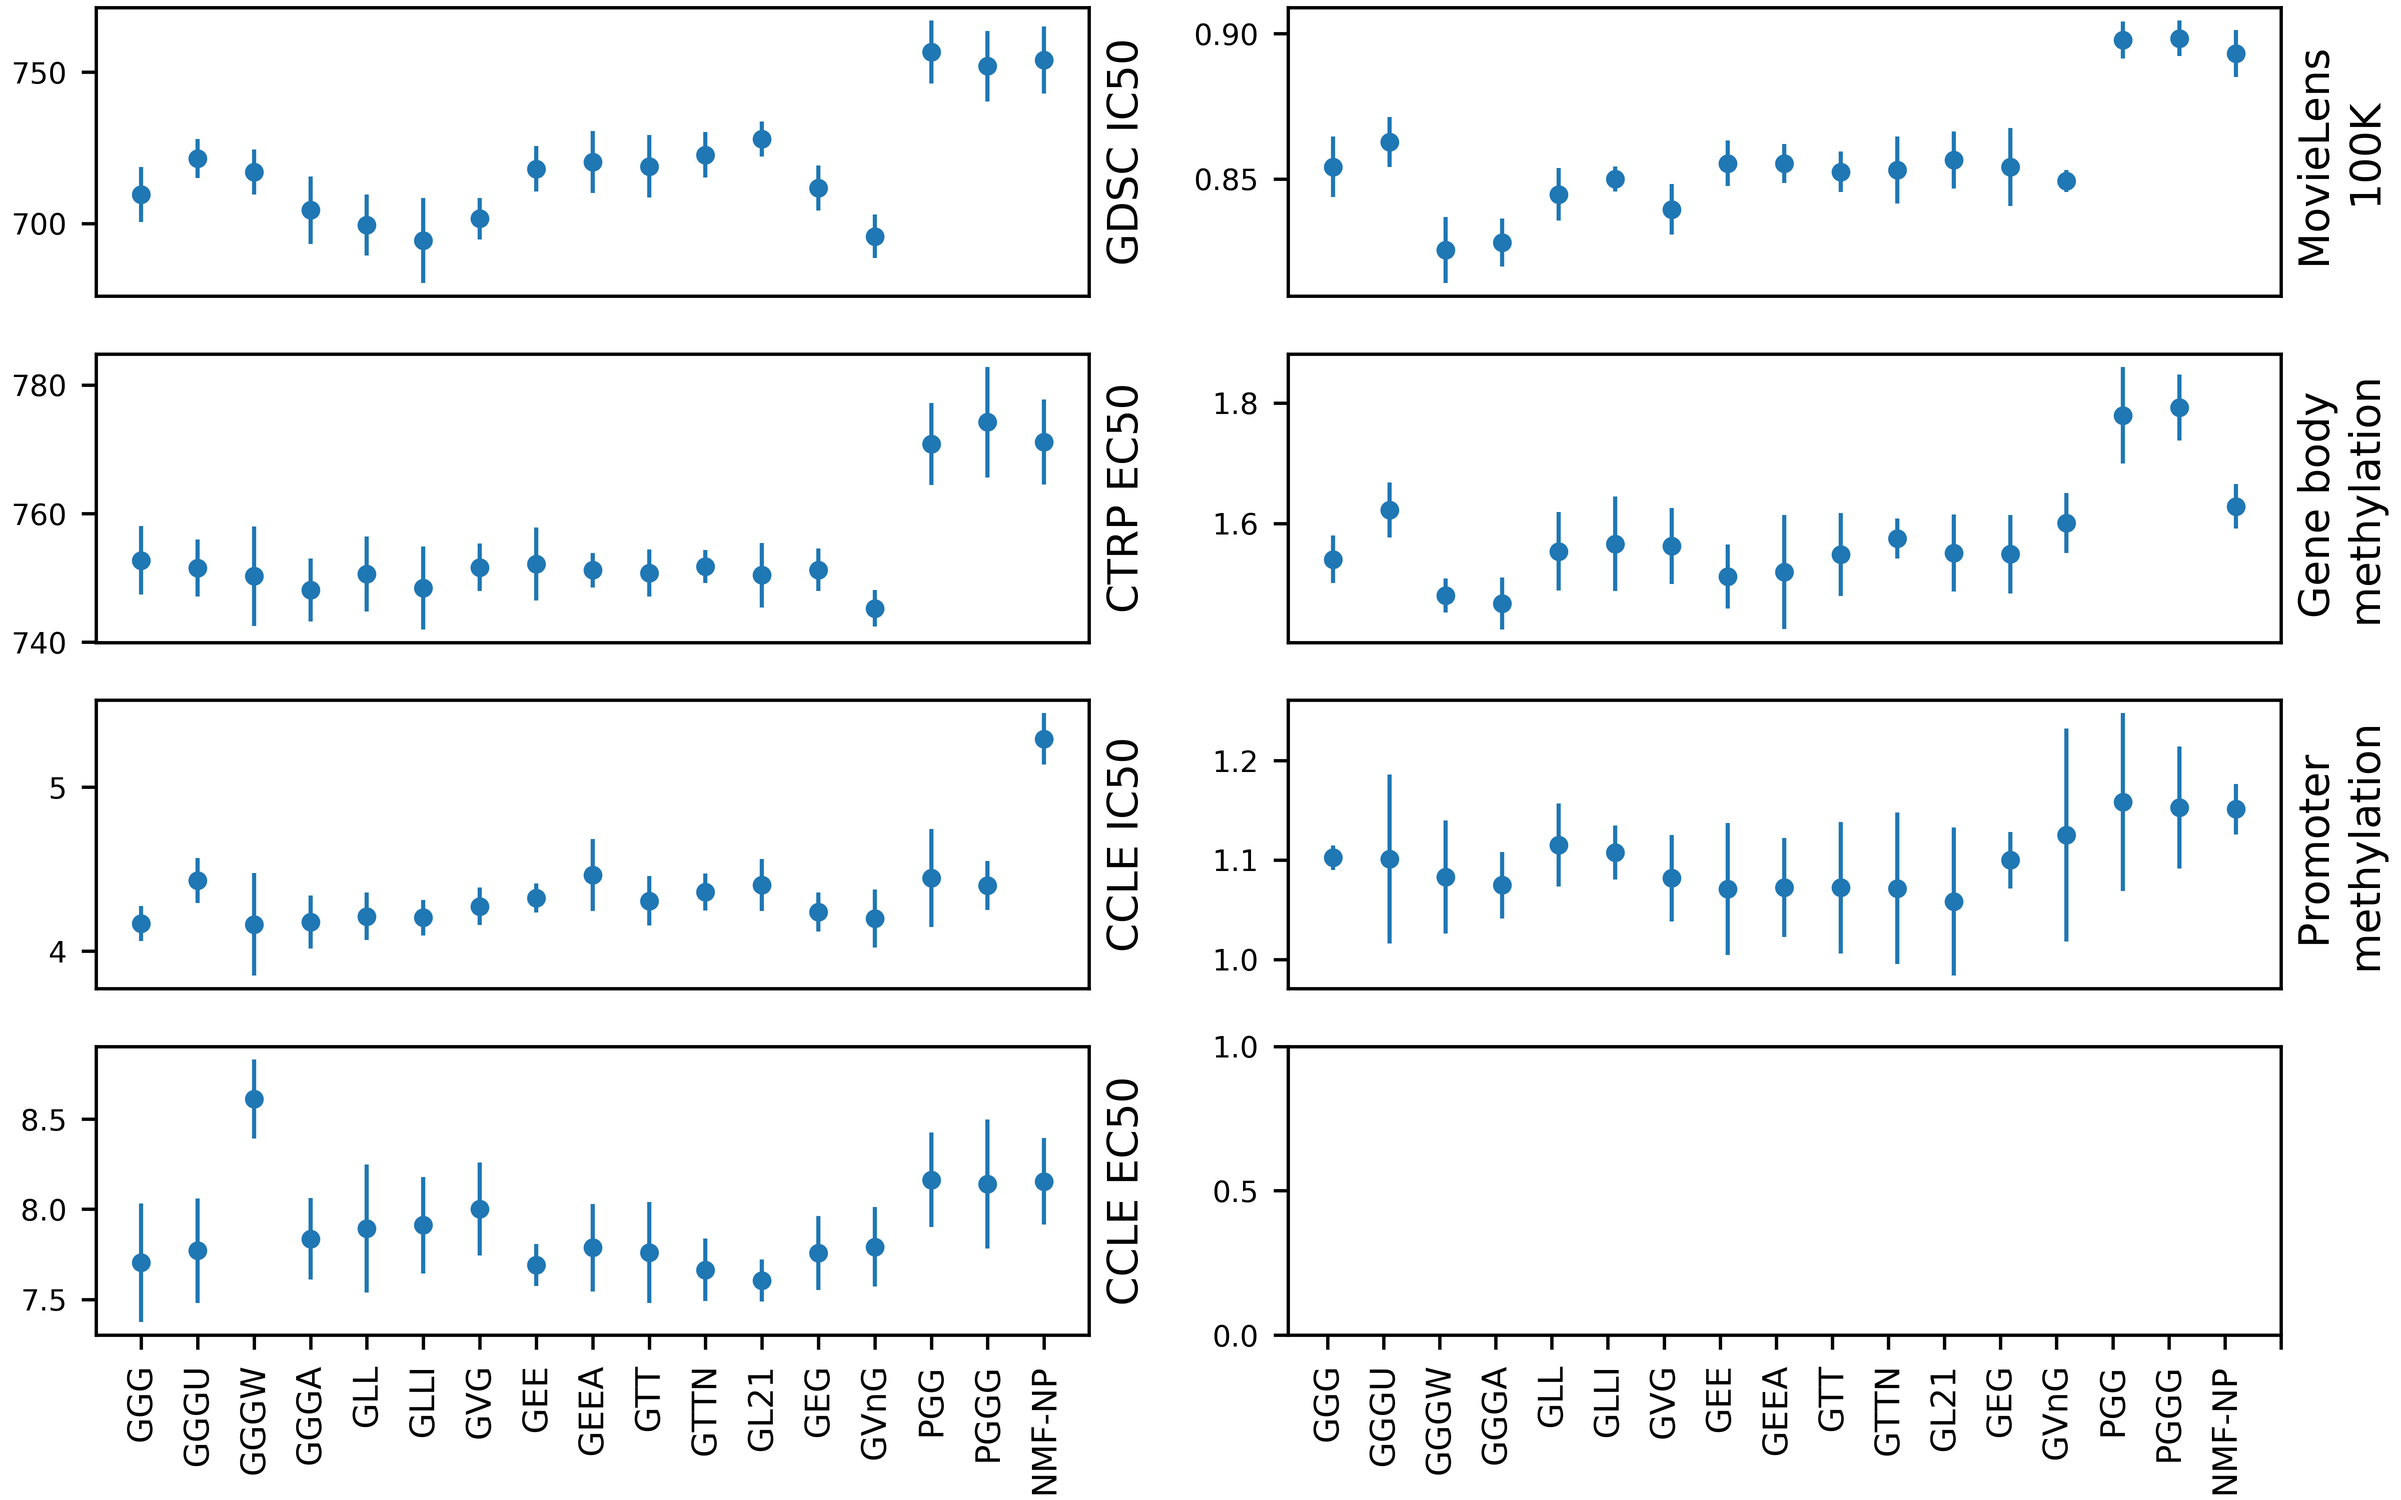
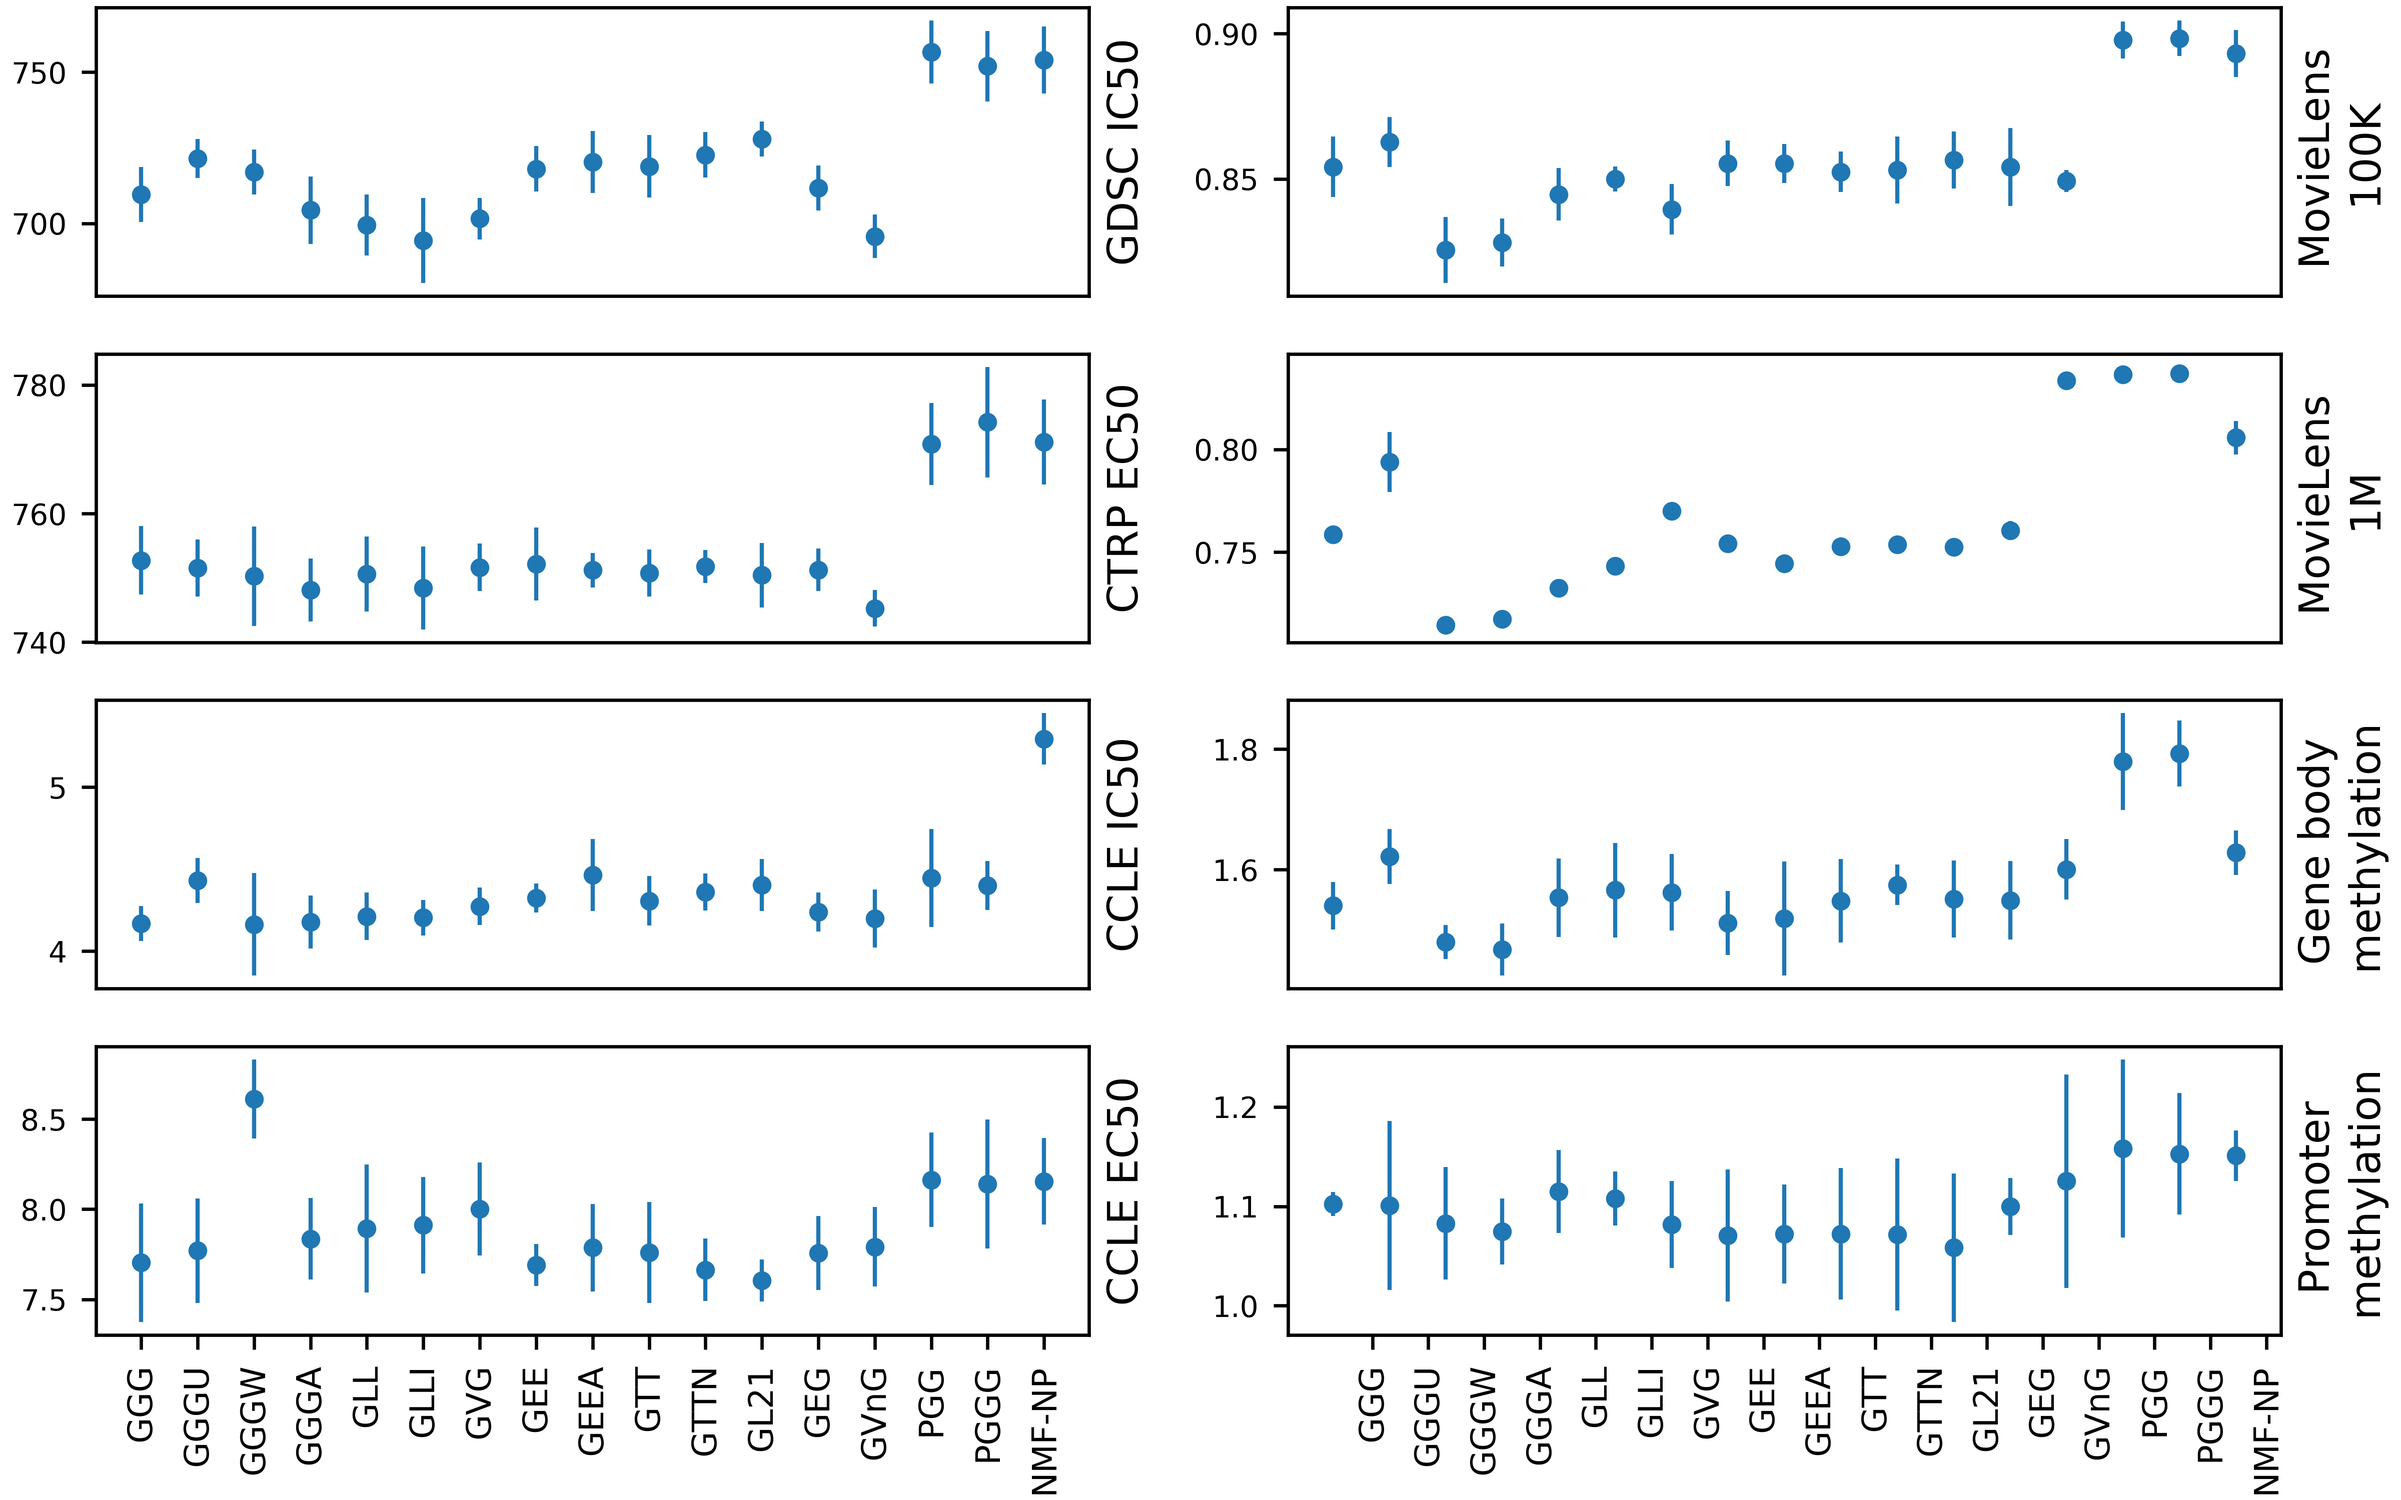
Finished running crossval ML1M, and sparsity ML1M.

diff --git a/experiments/sparsity/movielens_100K/plots/plot_sparsity_multiple_row.py b/experiments/sparsity/movielens_100K/plots/plot_sparsity_multiple_row.py
@@ -1,0 +1,140 @@
+"""
+Plot the sparsity experiment outcomes.
+"""
+
+import matplotlib.pyplot as plt
+import numpy
+
+
+''' Plot settings. '''
+MSE_min, MSE_max = 0.775, 1.1
+fraction_min, fraction_max = 0.928, 0.982
+fractions_unknown = [0.93, 0.94, 0.95, 0.96, 0.97, 0.98]
+
+folder_plots = "./"
+folder_results = "./../results/"
+plot_file = folder_plots+"sparsity_movielens_100k_multiple_row.png"
+
+
+''' Load in the performances. '''
+def eval_handle_nan(fin):
+    string = open(fin,'r').readline()
+    old, new = "nan", "10000" #"numpy.nan"
+    string = string.replace(old, new)
+    return eval(string)
+    
+ggg = eval(open(folder_results+'performances_gaussian_gaussian.txt','r').read())
+gggu = eval(open(folder_results+'performances_gaussian_gaussian_univariate.txt','r').read())
+gggw = eval(open(folder_results+'performances_gaussian_gaussian_wishart.txt','r').read())
+ggga = eval(open(folder_results+'performances_gaussian_gaussian_ard.txt','r').read())
+gll = eval(open(folder_results+'performances_gaussian_laplace.txt','r').read())
+glli = eval(open(folder_results+'performances_gaussian_laplace_ig.txt','r').read())
+gvg = eval(open(folder_results+'performances_gaussian_gaussian_volumeprior.txt','r').read())
+gvng = eval(open(folder_results+'performances_gaussian_gaussian_volumeprior_nonnegative.txt','r').read())
+geg = eval(open(folder_results+'performances_gaussian_gaussian_exponential.txt','r').read())
+gee = eval(open(folder_results+'performances_gaussian_exponential.txt','r').read())
+geea = eval(open(folder_results+'performances_gaussian_exponential_ard.txt','r').read())
+gtt = eval(open(folder_results+'performances_gaussian_truncatednormal.txt','r').read())
+gttn = eval(open(folder_results+'performances_gaussian_truncatednormal_hierarchical.txt','r').read())
+gl21 = eval(open(folder_results+'performances_gaussian_l21.txt','r').read())
+pgg = eval(open(folder_results+'performances_poisson_gamma.txt','r').read())
+pggg = eval(open(folder_results+'performances_poisson_gamma_gamma.txt','r').read())
+
+nmf_np = eval_handle_nan(folder_results+'performances_baseline_mf_nonprobabilistic.txt')
+
+largegraph_performances_names_colours_linestyles_markers = [
+    (ggg,  'GGG',  'r', '-', None),#'1'),
+    (gggu, 'GGGU', 'r', '-', None),#'2'),
+    (gggw, 'GGGW', 'r', '-', None),#'3'),
+    (ggga, 'GGGA', 'r', '-', None),#'4'),
+    (gll,  'GLL',  'r', '-', None),#'5'),
+    (glli, 'GLLI', 'r', '-', None),#'6'),
+    (gvg,  'GVG',  'r', '-', None),#'7'),
+    (gee,  'GEE',  'b', '-', None),#'1'),
+    (geea, 'GEEA', 'b', '-', None),#'2'),
+    (gtt,  'GTT',  'b', '-', None),#'3'),
+    (gttn, 'GTTN', 'b', '-', None),#'4'),
+    (gl21, 'GL21', 'b', '-', None),#'5'),
+    (geg,  'GEG',  'g', '-', None),#'1'),
+    (gvng, 'GVnG', 'g', '-', None),#'2'),
+    (pgg,  'PGG',  'y', '-', None),#'1'),
+    (pggg, 'PGGG', 'y', '-', None),#'2'),
+    (nmf_np, 'NMF-NP', 'grey', '-', None),#'1'),
+]
+smallgraph1 = [
+    (ggg,  'GGG',  'r', '-', '1'),
+    (gggu, 'GGGU', 'r', '-', '2'),
+]
+smallgraph2 = [
+    (ggg,  'GGG',  'r', '-', '1'),
+#    (gggw, 'GGGW', 'r', '-', '3'),
+    (gll,  'GLL',  'r', '-', '5'),
+    (gee,  'GL21', 'b', '-', '1'),
+    (gtt,  'GTT',  'b', '-', '3'),
+    (gl21, 'GL21', 'b', '-', '5'),
+]
+smallgraph3 = [
+    (gll,  'GLL',  'r', '-', '5'),
+    (glli, 'GLLI', 'r', '-', '6'),
+    (gtt,  'GTT',  'b', '-', '3'),
+    (gttn, 'GTTN', 'b', '-', '4'),
+    (pgg,  'PGG',  'y', '-', '1'),
+    (pggg, 'PGGG', 'y', '-', '2'),
+]
+smallgraph4 = [
+    (gvg,  'GVG',  'r', '-', '7'),
+    (gvng, 'GVnG', 'g', '-', '2'),
+    (ggg,  'GGG',  'r', '-', '1'),
+    (geg,  'GEG',  'g', '-', '1'),
+]
+
+
+''' Set up the plots. '''
+fig = plt.figure(figsize=(11,2))
+ax1 = plt.subplot2grid((1, 5), (0, 0))
+ax2 = plt.subplot2grid((1, 5), (0, 1), sharey=ax1)
+ax3 = plt.subplot2grid((1, 5), (0, 2), sharey=ax1)
+ax4 = plt.subplot2grid((1, 5), (0, 3), sharey=ax1)
+ax5 = plt.subplot2grid((1, 5), (0, 4), sharey=ax1)
+axes = [ax1, ax2, ax3, ax4, ax5]
+fig.subplots_adjust(left=0.047, right=0.995, bottom=0.18, top=0.90, wspace=0.05)
+
+# Set x and y limits, and label fontsizes
+for ax in [ax1, ax2, ax3, ax4, ax5]:
+    for tick in ax.xaxis.get_major_ticks():
+        tick.label.set_fontsize(6)
+    for tick in ax.yaxis.get_major_ticks():
+        tick.label.set_fontsize(6)
+    ax.set_ylim(MSE_min,MSE_max)
+    ax.set_xlim(fraction_min, fraction_max)
+
+# Remove ticks and ticklabels of all plots except left one
+for ax in [ax2, ax3, ax4, ax5]:
+    plt.setp(ax.get_xticklabels(), visible=False)
+    plt.setp(ax.get_yticklabels(), visible=False)
+    for tic in ax.xaxis.get_major_ticks():
+        tic.tick1On = tic.tick2On = False
+    for tic in ax.yaxis.get_major_ticks():
+        tic.tick1On = tic.tick2On = False
+
+ax1.set_xlabel("Fraction unobserved", fontsize=9,)
+ax1.set_ylabel("MSE", fontsize=9)
+ax1.set_title("(f) All methods", fontsize=8)
+ax2.set_title("(g) GGG, GGGU", fontsize=8)
+ax3.set_title("(h) GGG, GLL, GEE, GTT, GL21", fontsize=8)
+ax4.set_title("(i) GLL, GLLI, GTT, GTTN, PGG, PGGG", fontsize=8)
+ax5.set_title("(j) GGG, GVG, GEG, GVnG", fontsize=8)
+
+
+''' Add the actual plots. '''
+x = fractions_unknown
+for i, performances_names_colours_linestyles_markers in enumerate([
+    largegraph_performances_names_colours_linestyles_markers,
+    smallgraph1, smallgraph2, smallgraph3, smallgraph4,
+]):
+    for performances, name, colour, linestyle, marker in performances_names_colours_linestyles_markers:
+        y = numpy.mean(performances["MSE"],axis=1)
+        axes[i].plot(x, y, label=name, linestyle=linestyle, marker=('$%s$' % marker if marker else ''), 
+                     c=colour, markersize=6, markevery=(4,2), linewidth=(2 if i==0 else 1))
+
+plt.savefig(plot_file, dpi=600)

diff --git a/experiments/cross_validation/plots/plot_crossvalidation.py b/experiments/cross_validation/plots/plot_crossvalidation.py
@@ -88,7 +88,7 @@ all_performances_datasets = [
         'CCLE IC50', 
         'CCLE EC50', 
         'MovieLens 100K',
-        #'MovieLens 1M',
+        'MovieLens 1M',
         'Gene body methylation',
         'Promoter methylation',
     ]

diff --git a/experiments/cross_validation/plots/plot_crossvalidation_twocolumns.py b/experiments/cross_validation/plots/plot_crossvalidation_twocolumns.py
@@ -88,7 +88,7 @@ all_performances_datasets = [
         'CCLE IC50', 
         'CCLE EC50', 
         'MovieLens 100K',
-        #'MovieLens 1M',
+        'MovieLens 1M',
         'Gene body methylation',
         'Promoter methylation',
     ]
